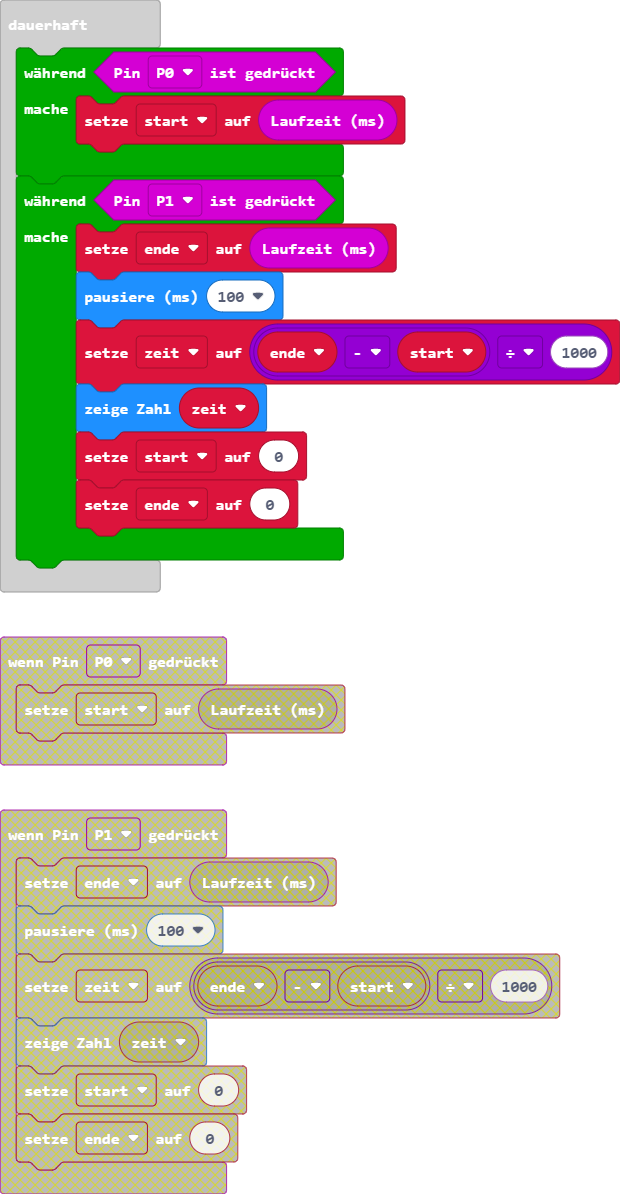
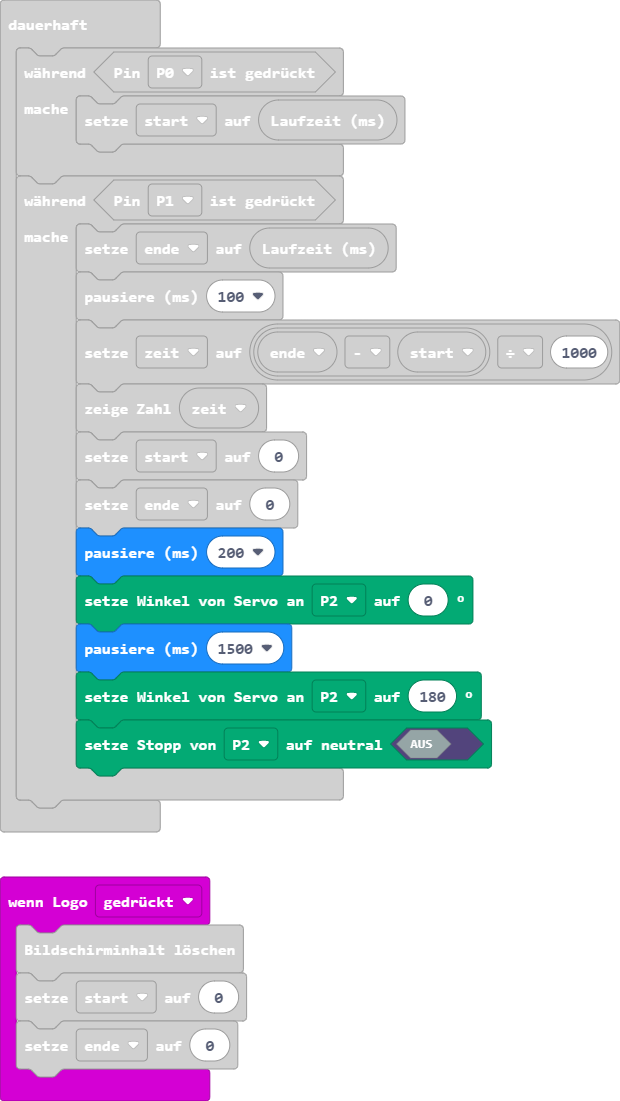
Aktualisiere pxt.json, main.blocks, main.ts

diff --git a/main.ts b/main.ts
@@ -1,4 +1,3 @@
-// Reset-Funktion
 input.onLogoEvent(TouchButtonEvent.Pressed, function () {
     basic.clearScreen()
     start = 0
@@ -20,5 +19,10 @@ basic.forever(function () {
         basic.showNumber(zeit)
         start = 0
         ende = 0
+        basic.pause(200)
+        servos.P2.setAngle(0)
+        basic.pause(1500)
+        servos.P2.setAngle(180)
+        servos.P2.setStopOnNeutral(false)
     }
 })
